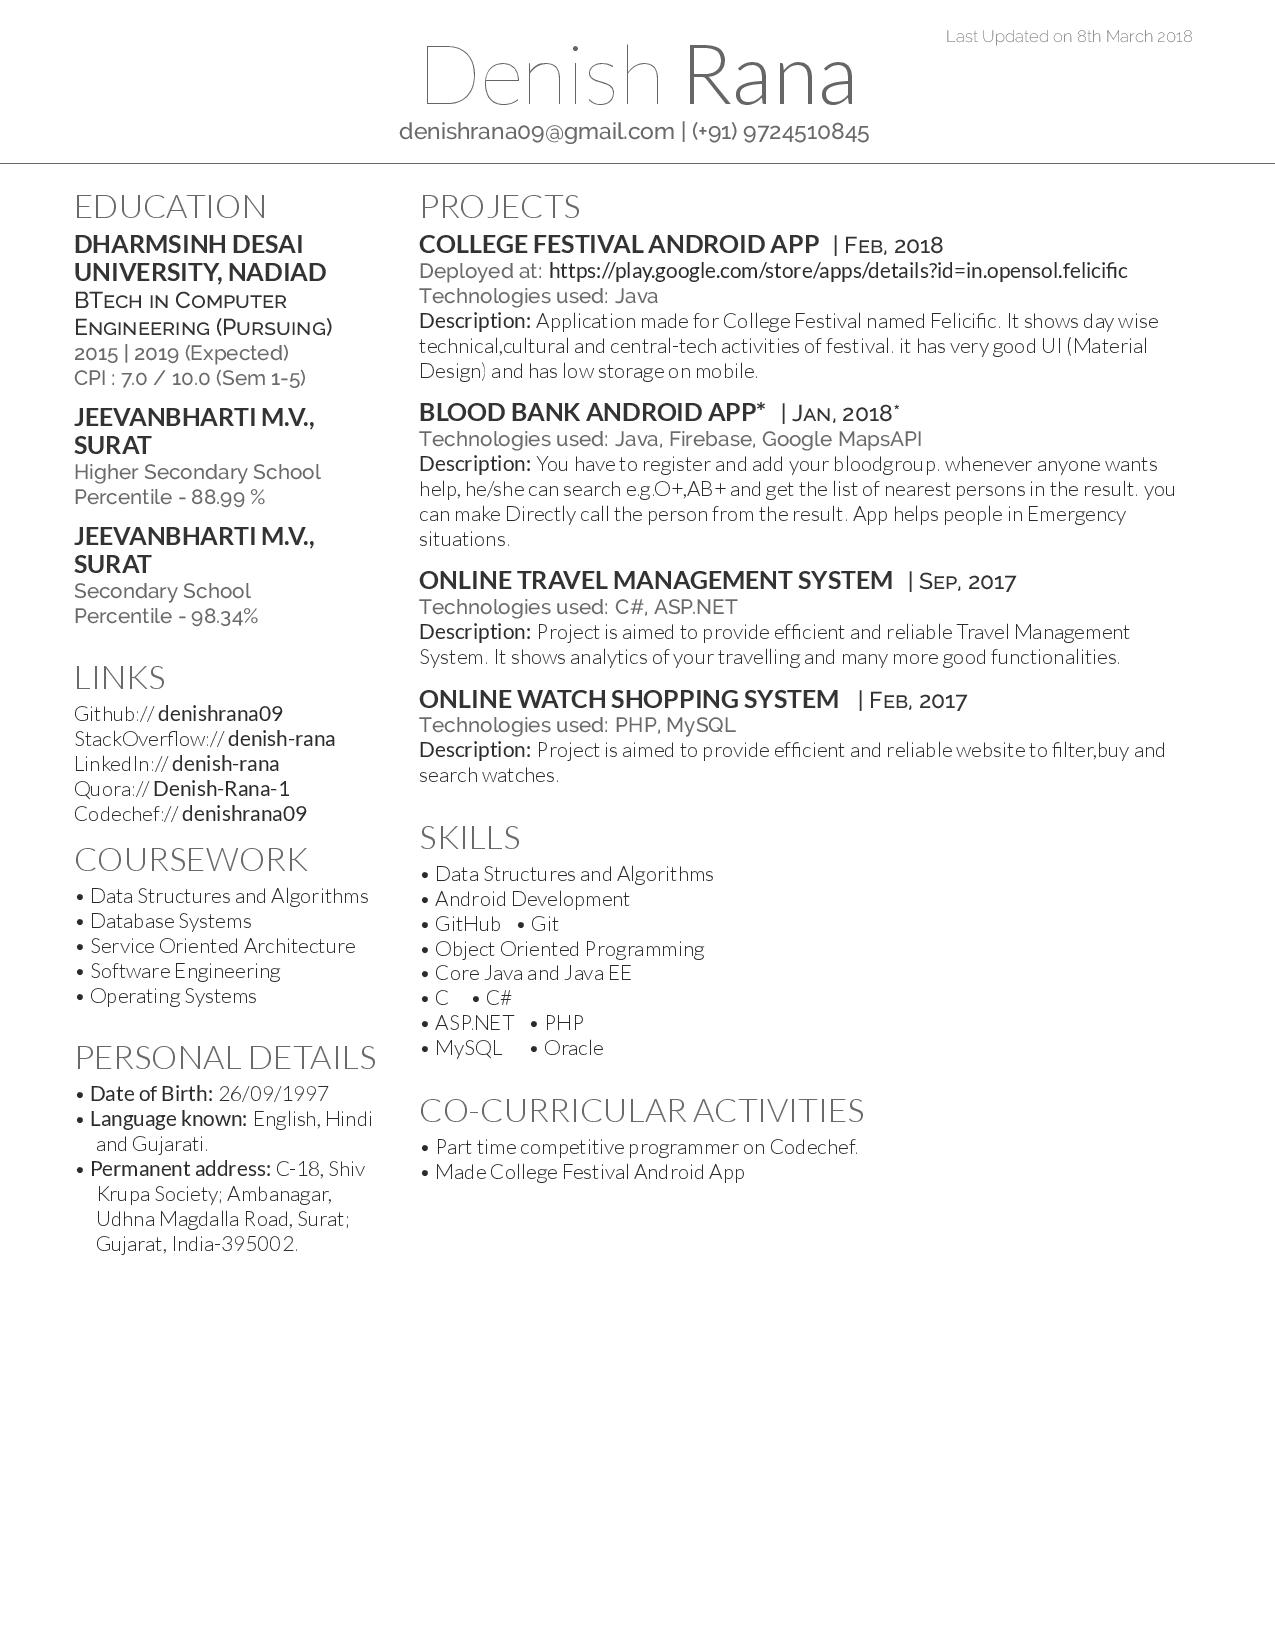
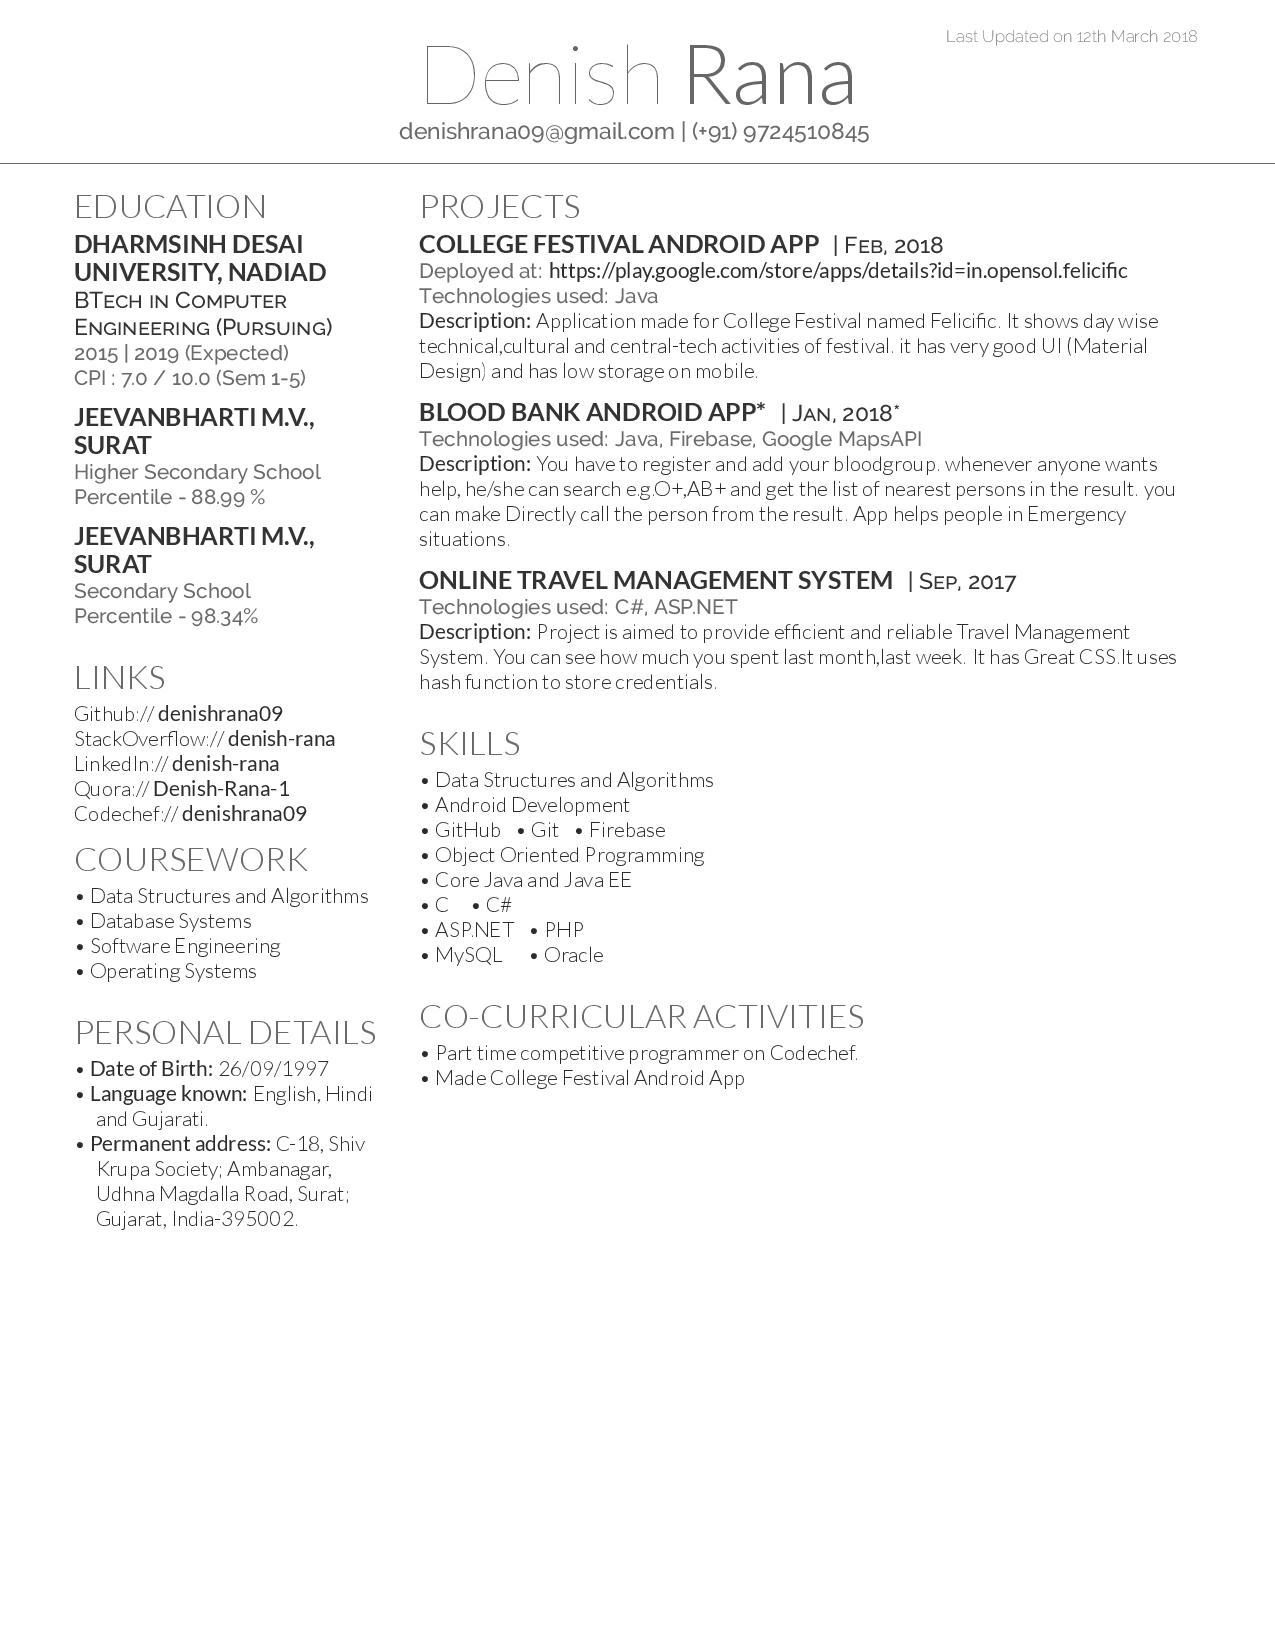
updated

Changed region(s): [[0.3365, 0.3709, 0.7647, 0.7109], [0.0612, 0.5564, 0.3059, 0.7727], [0.8565, 0.0, 0.8871, 0.0309]]

diff --git a/Denish Resume/denish_resume.tex b/Denish Resume/denish_resume.tex
@@ -91,7 +91,6 @@ Codechef:// \href {https://www.codechef.com/users/denishrana09}{\bf denishrana09
 \section{Coursework}
 \textbullet{} Data Structures and Algorithms\\
 \textbullet{} Database Systems \\
-\textbullet{} Service Oriented Architecture \\
 \textbullet{} Software Engineering \\
 \textbullet{} Operating Systems \\
 \sectionsep
@@ -140,14 +139,9 @@ Codechef:// \href {https://www.codechef.com/users/denishrana09}{\bf denishrana09
 \runsubsection{Online Travel Management System}
 \descript{| Sep, 2017}
 \location{Technologies used: C\#, ASP.NET }
-\textbf{Description:} Project is aimed to provide efficient and reliable Travel Management System. It shows analytics of your travelling and many more good functionalities.\\
+\textbf{Description:} Project is aimed to provide efficient and reliable Travel Management System. You can see how much you spent last month,last week. It has Great CSS.It uses hash function to store credentials.\\
 \sectionsep
 
-\runsubsection{Online Watch Shopping System }
-\descript{| Feb, 2017}
-\location{Technologies used: PHP, MySQL}
-\textbf{Description:} Project is aimed to provide efficient and reliable website to filter,buy and search watches.\\
-\sectionsep
 
 
 %%%%%%%%%%%%%%%%%%%%%%%%%%%%%%%%%%%%%%
@@ -158,7 +152,7 @@ Codechef:// \href {https://www.codechef.com/users/denishrana09}{\bf denishrana09
 
 \textbullet{} Data Structures and Algorithms \\
 \textbullet{} Android Development \\
-\textbullet{} GitHub \hspace{1mm} \textbullet{} Git \\
+\textbullet{} GitHub \hspace{1mm} \textbullet{} Git \hspace{1mm} \textbullet{} Firebase \\
 \textbullet{} Object Oriented Programming \\
 \textbullet{} Core Java and Java EE \\
 \textbullet{} C \hspace{2mm} \textbullet{} C\# \\
